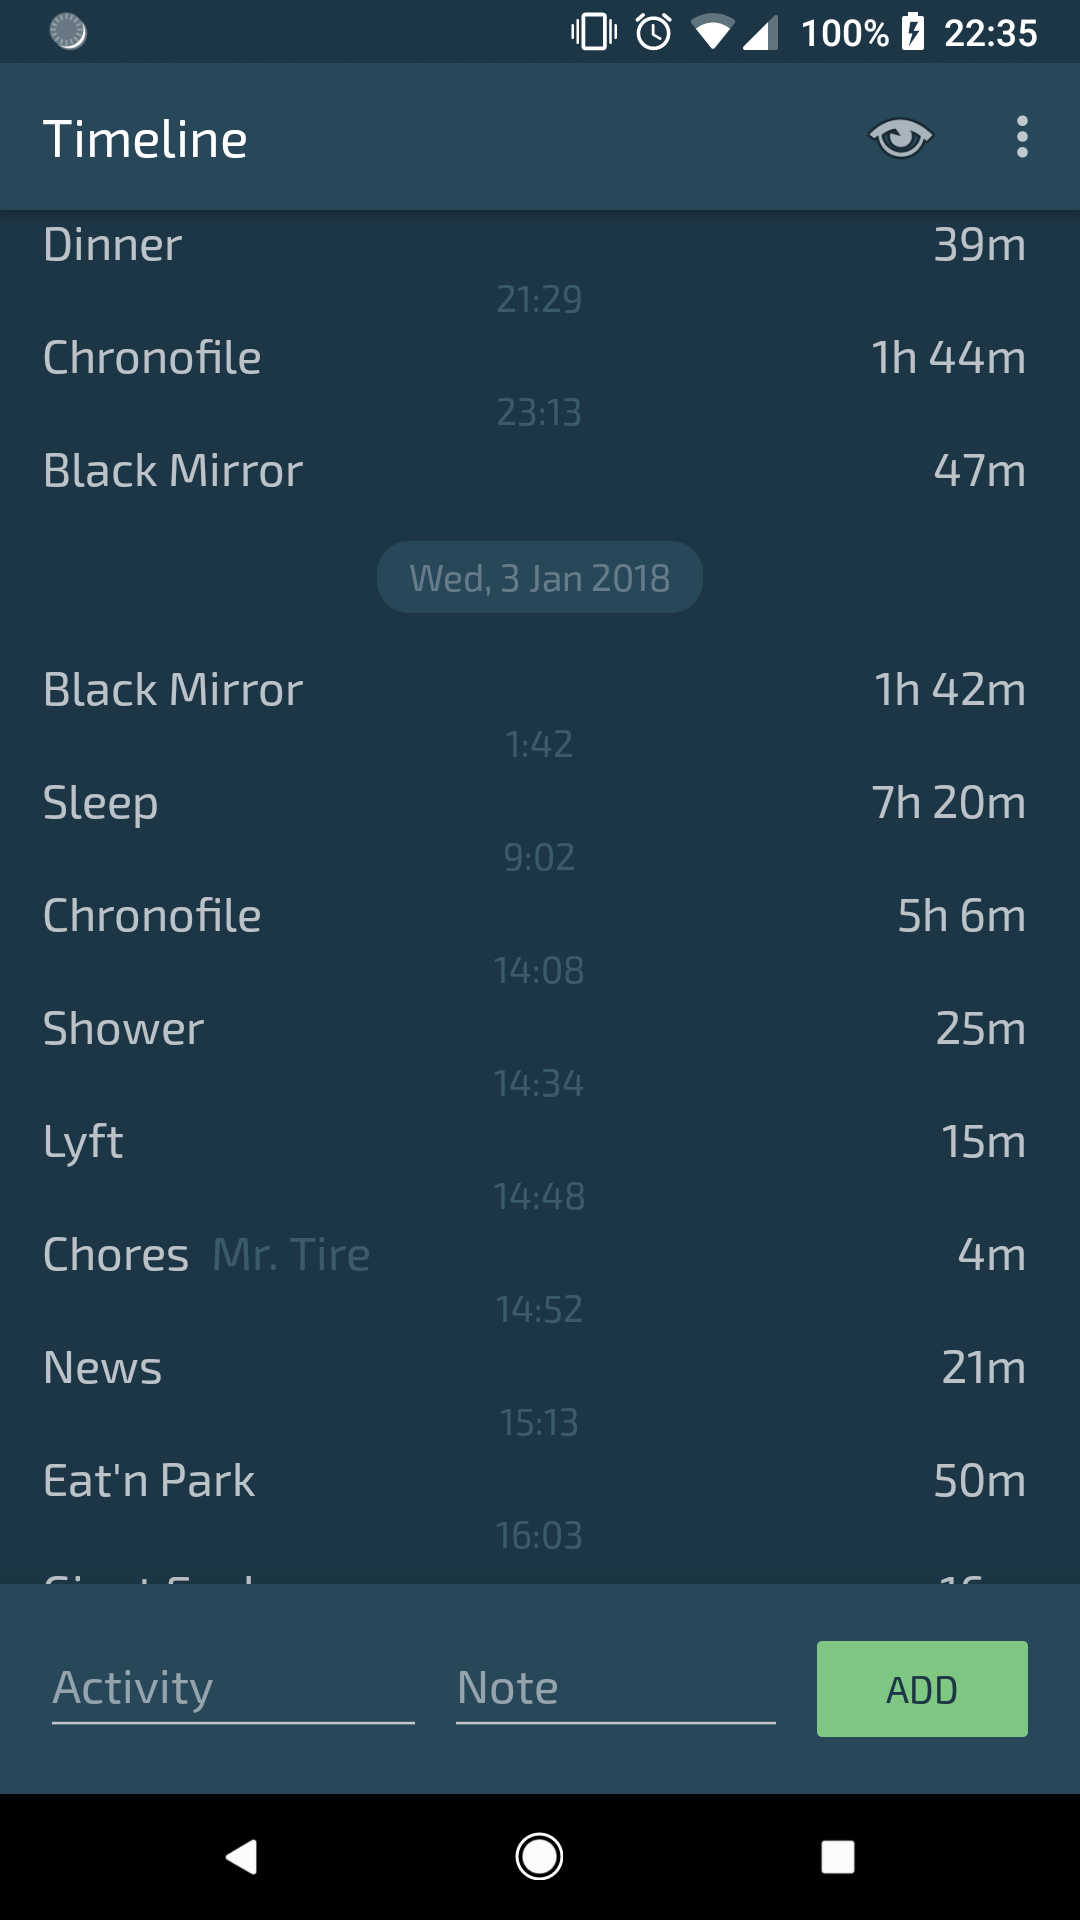
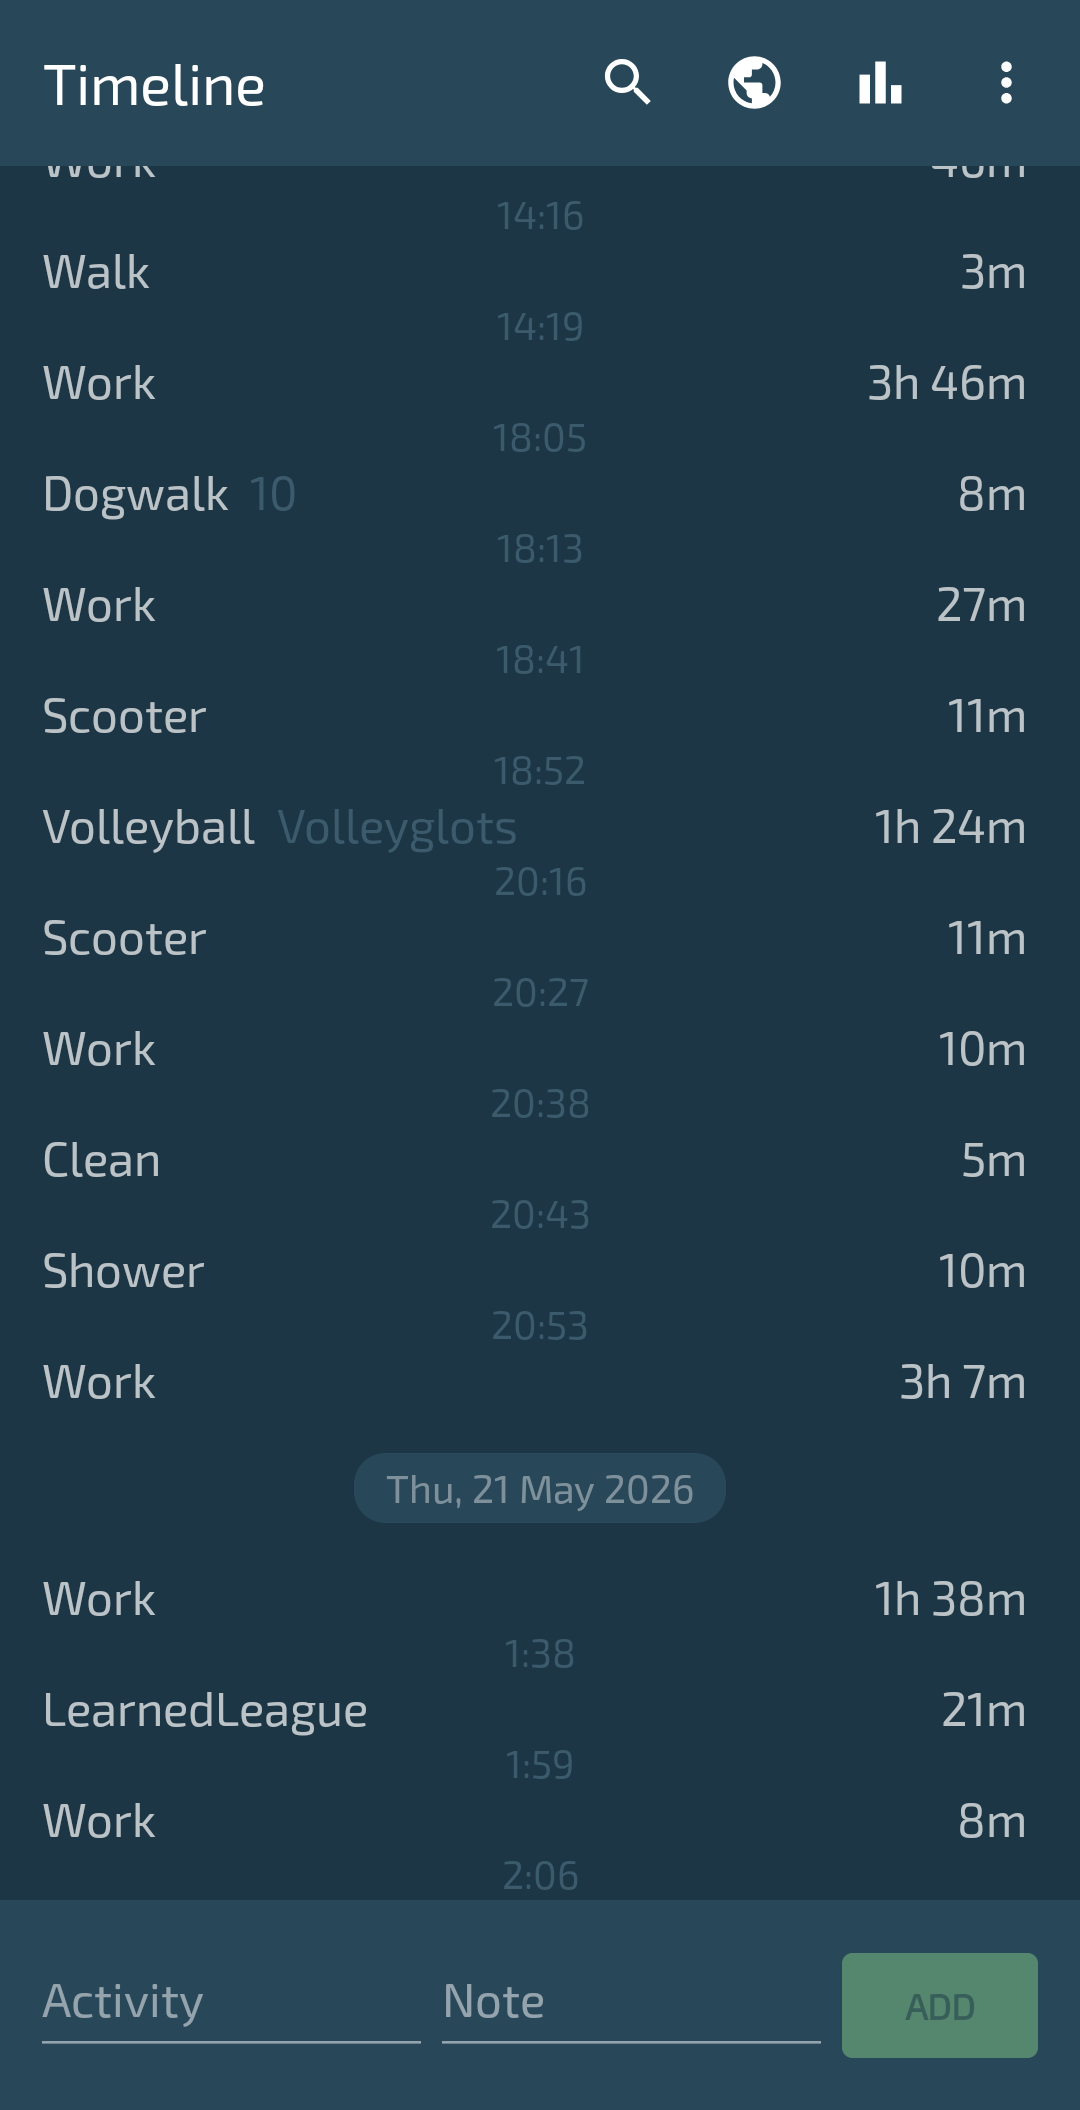
Update screenshots

diff --git a/README.md b/README.md
@@ -6,7 +6,7 @@ All data is saved to a `chronofile.tsv` file on your device. This app is 100% of
 
 <p><a href="https://play.google.com/store/apps/details?id=com.chaidarun.chronofile"><img alt="Get it on Google Play" src="https://github.com/user-attachments/assets/9e4f0788-8bab-420e-a374-5d4ba8814b91" height="50px" style="vertical-align:top" /></a>&nbsp;&nbsp;&nbsp;&nbsp;<a href="https://apt.izzysoft.de/fdroid/index/apk/com.chaidarun.chronofile"><img alt="Get it on IzzyOnDroid" src="https://gitlab.com/IzzyOnDroid/repo/-/raw/master/assets/IzzyOnDroidButtonGreyBorder_nofont.png" height="50px" /></a></p>
 
-<img alt="Timeline" src="https://raw.githubusercontent.com/artnc/chronofile/master/fastlane/metadata/android/en-US/images/phoneScreenshots/01.png" width="32%"> <img alt="Pie chart" src="https://raw.githubusercontent.com/artnc/chronofile/master/fastlane/metadata/android/en-US/images/phoneScreenshots/02.png" width="32%"> <img alt="Area chart" src="https://raw.githubusercontent.com/artnc/chronofile/master/fastlane/metadata/android/en-US/images/phoneScreenshots/03.png" width="32%">
+<img alt="Timeline" src="https://raw.githubusercontent.com/artnc/chronofile/master/fastlane/metadata/android/en-US/images/phoneScreenshots/01.png" width="32%"> <img alt="Map" src="https://raw.githubusercontent.com/artnc/chronofile/master/fastlane/metadata/android/en-US/images/phoneScreenshots/02.png" width="32%"> <img alt="Correlation matrix" src="https://raw.githubusercontent.com/artnc/chronofile/master/fastlane/metadata/android/en-US/images/phoneScreenshots/03.png" width="32%"> <img alt="Radar chart" src="https://raw.githubusercontent.com/artnc/chronofile/master/fastlane/metadata/android/en-US/images/phoneScreenshots/04.png" width="32%"> <img alt="Pie chart" src="https://raw.githubusercontent.com/artnc/chronofile/master/fastlane/metadata/android/en-US/images/phoneScreenshots/05.png" width="32%"> <img alt="Area chart" src="https://raw.githubusercontent.com/artnc/chronofile/master/fastlane/metadata/android/en-US/images/phoneScreenshots/06.png" width="32%">
 
 I used this project to learn Kotlin and relearn Android development before I began work on the [Duolingo app](https://play.google.com/store/apps/details?id=com.duolingo), which is [now 100% Kotlin](https://blog.duolingo.com/migrating-duolingos-android-app-to-100-kotlin/)!
 